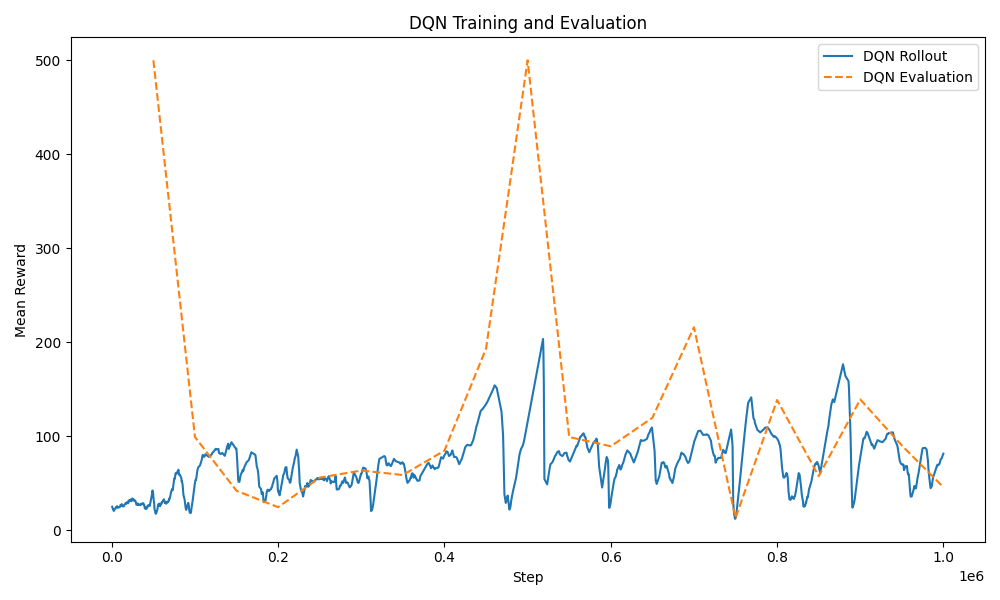
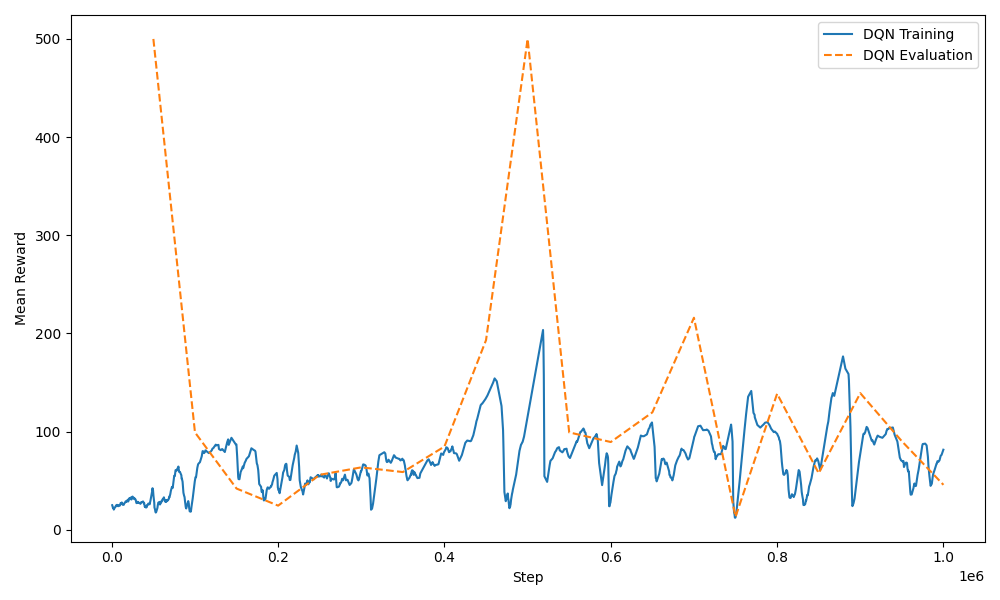
Update DQN and PPO plotting functions for clarity and consistency

diff --git a/plots/exercise1_plots.py b/plots/exercise1_plots.py
@@ -14,16 +14,19 @@ dqn_eval_df = pd.read_csv(DQN_EVAL_CSV)
 dqn_rollout_df = pd.read_csv(DQN_ROLLOUT_CSV)
 ppo_rollout_df = pd.read_csv(PPO_ROLLOUT_CSV)
 
+
 # Plot DQN data
 def plot_dqn_data():
     plt.figure(figsize=(10, 6))
-    plt.title("DQN Training and Evaluation")
+    # plt.title("DQN Training and Evaluation")
 
     # Plot DQN rollout
-    sns.lineplot(data=dqn_rollout_df, x="Step", y="Value", label="DQN Rollout")
+    sns.lineplot(data=dqn_rollout_df, x="Step", y="Value", label="DQN Training")
 
     # Plot DQN evaluation
-    sns.lineplot(data=dqn_eval_df, x="Step", y="Value", label="DQN Evaluation", linestyle="--")
+    sns.lineplot(
+        data=dqn_eval_df, x="Step", y="Value", label="DQN Evaluation", linestyle="--"
+    )
 
     plt.xlabel("Step")
     plt.ylabel("Mean Reward")
@@ -35,13 +38,19 @@ def plot_dqn_data():
 # Plot PPO data
 def plot_ppo_data():
     plt.figure(figsize=(10, 6))
-    plt.title("PPO Training and Evaluation")
+    # plt.title("PPO Training and Evaluation")
 
     # Plot PPO rollout
-    sns.lineplot(data=ppo_rollout_df, x="Step", y="Value", label="PPO Rollout")
+    sns.lineplot(data=ppo_rollout_df, x="Step", y="Value", label="PPO Training")
 
     # Plot PPO evaluation
-    sns.lineplot(data=pd.read_csv(PPO_EVAL_CSV), x="Step", y="Value", label="PPO Evaluation", linestyle="--")
+    sns.lineplot(
+        data=pd.read_csv(PPO_EVAL_CSV),
+        x="Step",
+        y="Value",
+        label="PPO Evaluation",
+        linestyle="--",
+    )
 
     plt.xlabel("Step")
     plt.ylabel("Mean Reward")
